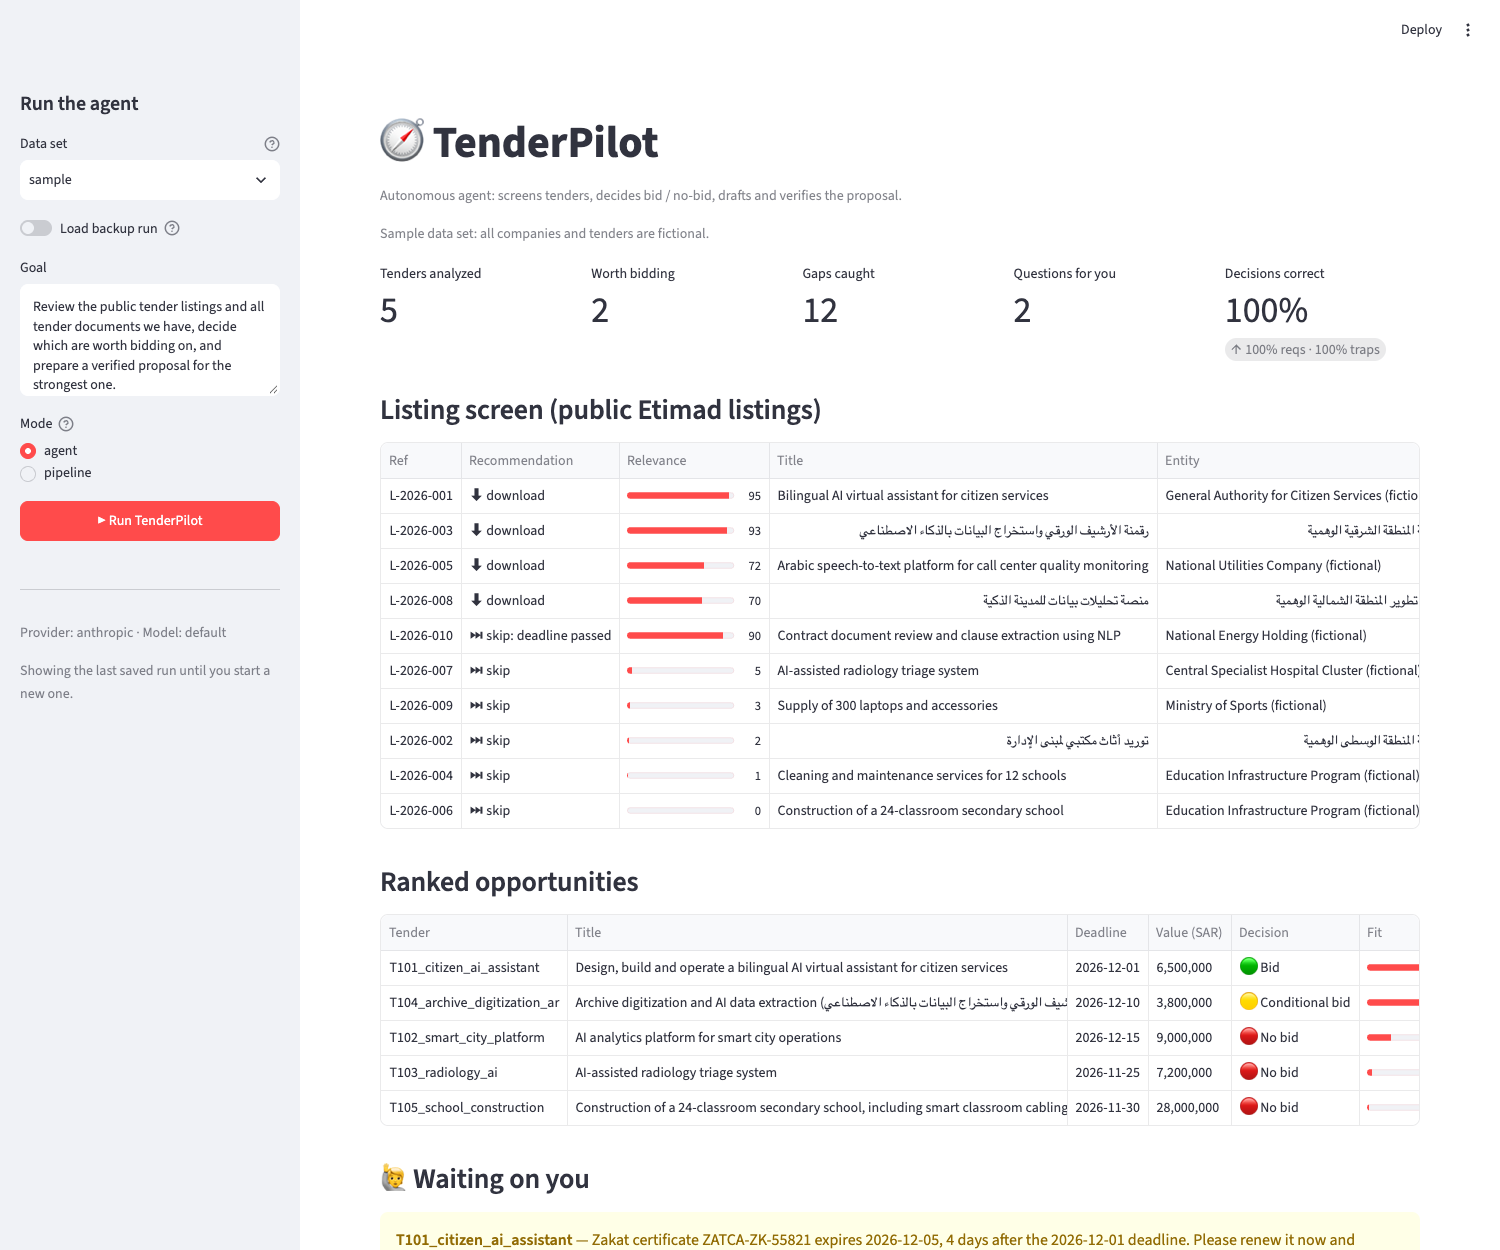
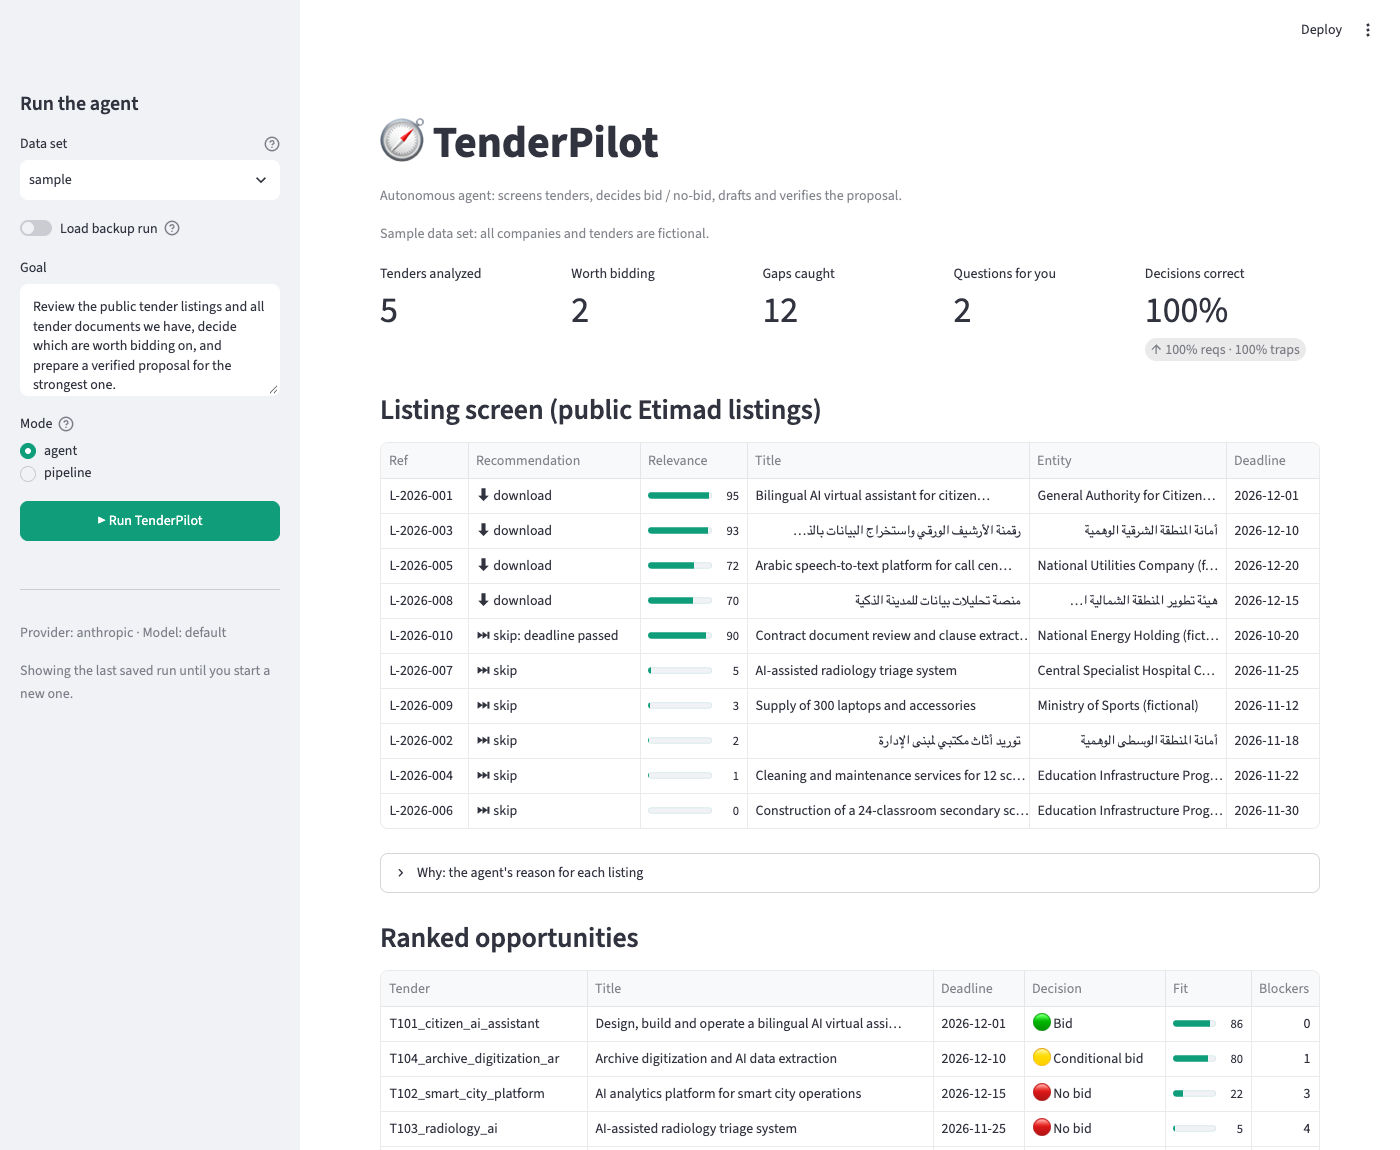
UI polish: teal theme, tables fit at 1400px, English-only titles in tables
- Theme primaryColor #0F9D7A (Run button, progress bars).
- Fixed pixel column widths and truncated titles/entities so the listing
  and ranking tables fit without scrolling; Value moved to the detail tab
  and the listing 'Why' column into an expander below the table.
- Mixed Arabic/English titles show only the English part in tables; the
  detail tab shows the English heading with the Arabic title on its own
  right-to-left line.

diff --git a/app.py b/app.py
@@ -4,6 +4,7 @@
 """
 from __future__ import annotations
 
+import html
 import json
 import os
 import re
@@ -44,6 +45,26 @@ def draft_preview(partial_json: str) -> str:
             text = raw
         out.append(f"#### {text}" if key == "title" else text)
     return "\n\n".join(out) + " ▌"
+
+
+ARABIC_RUN = re.compile(r"[-ۿݐ-ݿﭐ-﷿ﹰ-][-ۿݐ-ݿﭐ-﷿ﹰ-\s\d،؛:/\-–]*")
+
+
+def english_part(text: str) -> str:
+    """Mixed Arabic/English renders badly in tables: keep the English part (pure Arabic stays as is)."""
+    if not ARABIC_RUN.search(text):
+        return text
+    latin = re.sub(r"\(\s*\)|\[\s*\]", "", ARABIC_RUN.sub(" ", text))
+    latin = re.sub(r"\s{2,}", " ", latin).strip(" -–—:/|،")
+    return latin if re.search("[A-Za-z]", latin) else text
+
+
+def arabic_part(text: str) -> str:
+    return " ".join(m.strip(" -–—:/") for m in ARABIC_RUN.findall(text)).strip()
+
+
+def short(text: str, n: int) -> str:
+    return text if len(text) <= n else text[: n - 1].rstrip() + "…"
 
 
 st.set_page_config(page_title="TenderPilot", page_icon="🧭", layout="wide")
@@ -156,12 +177,19 @@ if results.get("shortlist"):
     shortlist = sorted(results["shortlist"], key=lambda x: (REC_ORDER[x["recommend"]], -x["relevance"]))
     rows = [{
         "Ref": x["reference"], "Recommendation": rec_label(x), "Relevance": x["relevance"],
-        "Title": by_ref.get(x["reference"], {}).get("title", ""),
-        "Entity": by_ref.get(x["reference"], {}).get("entity", ""),
-        "Deadline": by_ref.get(x["reference"], {}).get("deadline", ""), "Why": x["reason"],
+        "Title": short(english_part(by_ref.get(x["reference"], {}).get("title", "")), 44),
+        "Entity": short(english_part(by_ref.get(x["reference"], {}).get("entity", "")), 30),
+        "Deadline": by_ref.get(x["reference"], {}).get("deadline", ""),
     } for x in shortlist]
-    st.dataframe(pd.DataFrame(rows), hide_index=True, width="stretch",
-                 column_config={"Relevance": st.column_config.ProgressColumn("Relevance", min_value=0, max_value=100, format="%d")})
+    # widths in px: the six columns fit in the ~940px table of a 1400px-wide window
+    st.dataframe(pd.DataFrame(rows), hide_index=True, width="stretch", column_config={
+        "Ref": st.column_config.TextColumn(width=85), "Recommendation": st.column_config.TextColumn(width=170),
+        "Relevance": st.column_config.ProgressColumn("Relevance", min_value=0, max_value=100, format="%d", width=105),
+        "Title": st.column_config.TextColumn(width=280), "Entity": st.column_config.TextColumn(width=195),
+        "Deadline": st.column_config.TextColumn(width=90)})
+    with st.expander("Why: the agent's reason for each listing"):
+        st.dataframe(pd.DataFrame([{"Ref": x["reference"], "Why": x["reason"]} for x in shortlist]),
+                     hide_index=True, width="stretch", column_config={"Ref": st.column_config.TextColumn(width=85)})
 
 # ------------------------------------------------------------------ ranking
 if not results["ranking"]:
@@ -172,12 +200,14 @@ rank_rows = []
 for r in results["ranking"]:
     e = exts.get(r["tender_id"], {})
     rank_rows.append({
-        "Tender": r["tender_id"], "Title": e.get("title", ""), "Deadline": e.get("deadline", ""),
-        "Value (SAR)": f"{e.get('estimated_value_sar') or 0:,.0f}", "Decision": DECISION_LABEL[r["decision"]],
-        "Fit": r["fit_score"], "Blockers": len(r["blockers"]),
+        "Tender": r["tender_id"], "Title": short(english_part(e.get("title", "")), 54), "Deadline": e.get("deadline", ""),
+        "Decision": DECISION_LABEL[r["decision"]], "Fit": r["fit_score"], "Blockers": len(r["blockers"]),
     })
-st.dataframe(pd.DataFrame(rank_rows), hide_index=True, width="stretch",
-             column_config={"Fit": st.column_config.ProgressColumn("Fit", min_value=0, max_value=100, format="%d")})
+st.dataframe(pd.DataFrame(rank_rows), hide_index=True, width="stretch", column_config={
+    "Tender": st.column_config.TextColumn(width=205), "Title": st.column_config.TextColumn(width=345),
+    "Deadline": st.column_config.TextColumn(width=90), "Decision": st.column_config.TextColumn(width=140),
+    "Fit": st.column_config.ProgressColumn("Fit", min_value=0, max_value=100, format="%d", width=85),
+    "Blockers": st.column_config.NumberColumn(width=65)})
 
 if results["human_questions"]:
     st.subheader("🙋 Waiting on you")
@@ -191,7 +221,12 @@ for tab, r in zip(tabs, results["ranking"]):
     tid = r["tender_id"]
     e, q = exts[tid], quals[tid]
     with tab:
-        st.markdown(f"### {e['title']}\n*{e['issuer']}* · deadline **{e['deadline']}** · {DECISION_LABEL[q['decision']]} (fit {q['fit_score']})")
+        st.markdown(f"### {english_part(e['title'])}")
+        if english_part(e["title"]) != e["title"] and arabic_part(e["title"]):  # bilingual: Arabic on its own RTL line
+            st.markdown(f'<div dir="rtl" style="font-size:1.25rem;margin:-0.5rem 0 0.5rem">{html.escape(arabic_part(e["title"]))}</div>',
+                        unsafe_allow_html=True)
+        value = f" · value **SAR {e['estimated_value_sar']:,.0f}**" if e.get("estimated_value_sar") else ""
+        st.markdown(f"*{e['issuer']}* · deadline **{e['deadline']}**{value} · {DECISION_LABEL[q['decision']]} (fit {q['fit_score']})")
         st.write(e["summary"])
         left, right = st.columns(2)
         left.markdown("**Why**\n" + "\n".join(f"- {x}" for x in q["reasons"]))
